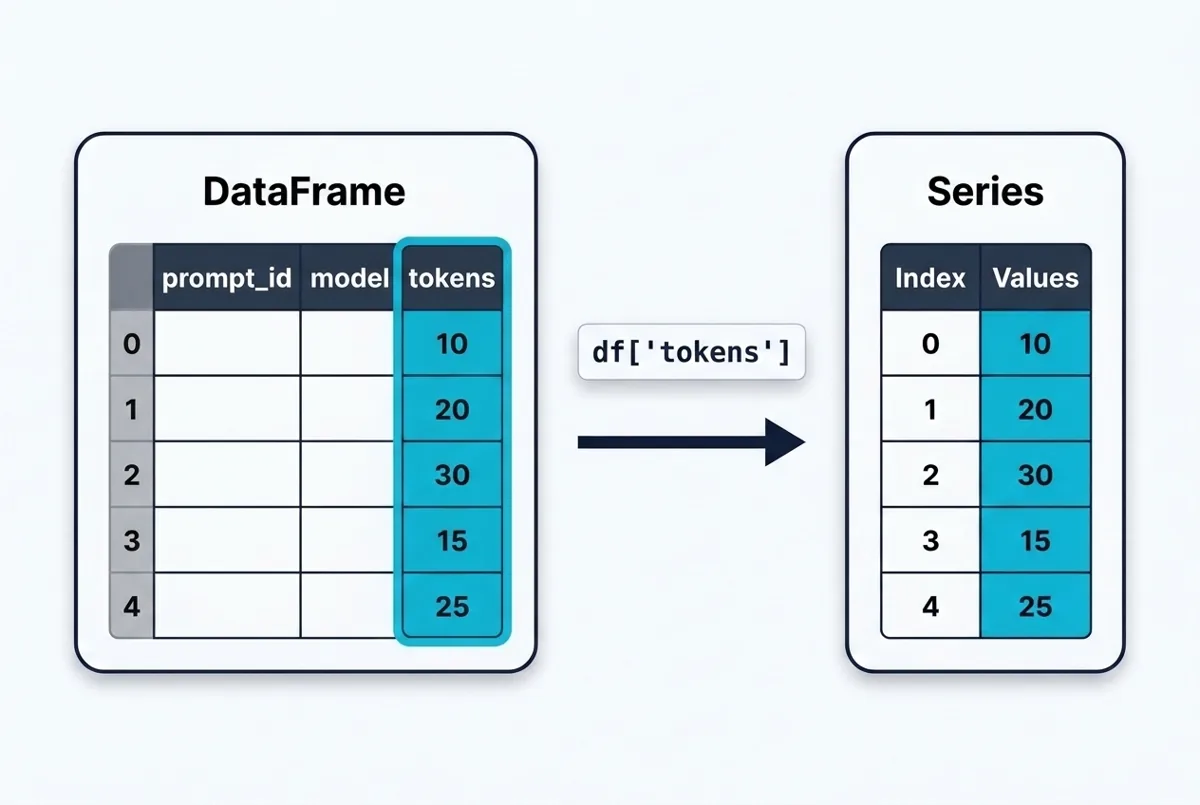
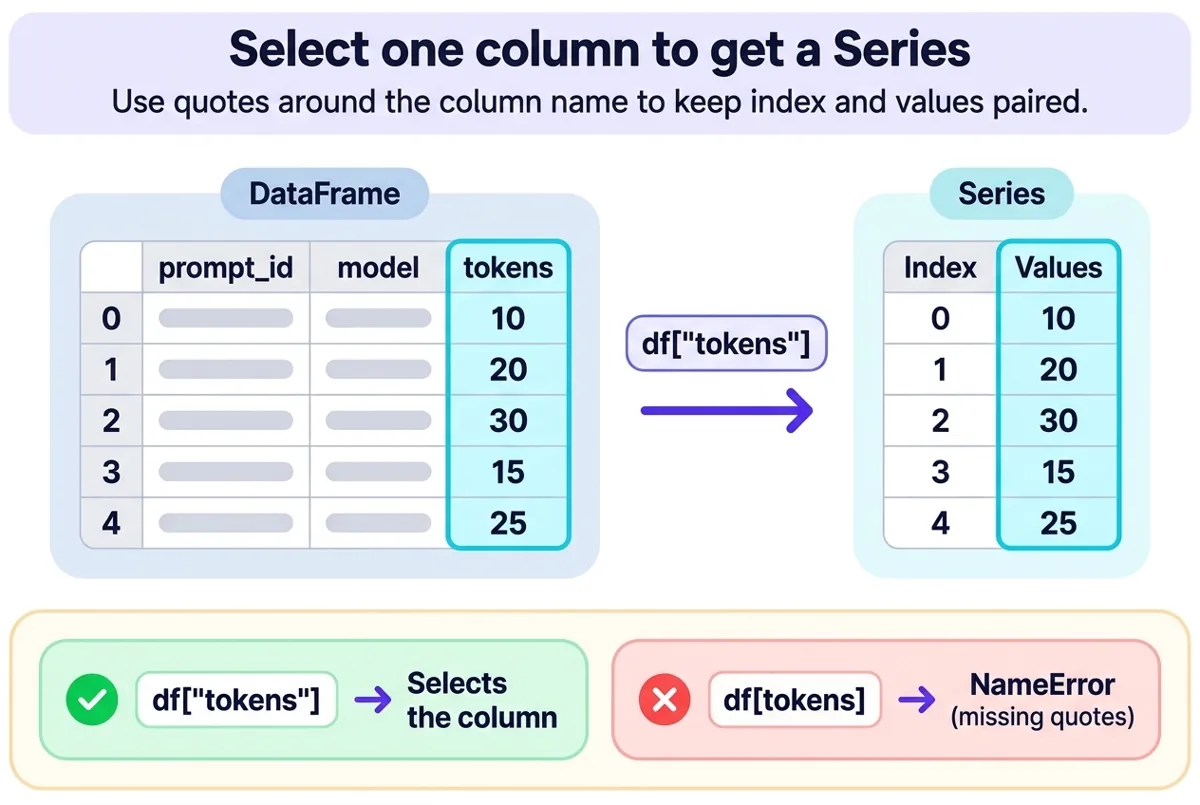
Upgrade p1-12 diagrams to pastel infographics and extend test coverage

diff --git a/tests/web/p1-12.spec.ts b/tests/web/p1-12.spec.ts
@@ -72,6 +72,20 @@ for (const width of [390, 768, 1440]) {
       await q1.getByRole("button", { name: "Check answer" }).click();
       await expect(q1.getByRole("status")).toContainText("Correct");
 
+      // Quick check q2 in column section: wrong feedback + retry
+      const q2 = page.locator("#column .knowledge-check");
+      await expect(q2.locator("fieldset")).toHaveAttribute(
+        "aria-describedby",
+        /.+/,
+      );
+      await q2.getByLabel("df[tokens]", { exact: true }).check();
+      await q2.getByRole("button", { name: "Check answer" }).click();
+      await expect(q2.getByRole("status")).toContainText("NameError");
+      await q2.getByRole("button", { name: "Try again" }).click();
+      await q2.getByLabel('df["tokens"]', { exact: true }).check();
+      await q2.getByRole("button", { name: "Check answer" }).click();
+      await expect(q2.getByRole("status")).toContainText("Correct");
+
       // Practice check in practice section: wrong feedback, retry, keyboard
       const practice = page.locator("#practice");
       await expect(practice.locator("fieldset")).toHaveAttribute(
@@ -132,16 +146,36 @@ for (const width of [390, 768, 1440]) {
         .click();
       await expect(lab).toContainText("total = 0");
 
-      // Step through loop and verify Reset
+      // Step through full 6-step .mean() loop walkthrough
       await lab.getByRole("button", { name: "Start loop →" }).click();
       await expect(lab).toContainText("total = 10");
       await lab
         .getByRole("button", { name: "Next step (row 2 of 5) →" })
         .click();
       await expect(lab).toContainText("total = 30");
+      await lab
+        .getByRole("button", { name: "Next step (row 3 of 5) →" })
+        .click();
+      await lab
+        .getByRole("button", { name: "Next step (row 4 of 5) →" })
+        .click();
+      await lab
+        .getByRole("button", { name: "Next step (row 5 of 5) →" })
+        .click();
+      await expect(lab).toContainText("total = 100");
+      await lab
+        .getByRole("button", { name: "Divide total by count →" })
+        .click();
+      await expect(lab).toContainText("average = 20.0");
 
-      // Final check
+      // Final check: wrong feedback + retry + correct
       const check = page.locator("#check");
+      await check
+        .getByLabel("A for loop cannot add numbers in Python.", { exact: true })
+        .check();
+      await check.getByRole("button", { name: "Check answer" }).click();
+      await expect(check.getByRole("status")).toContainText("can add numbers");
+      await check.getByRole("button", { name: "Try again" }).click();
       await check
         .getByLabel(
           "It expresses the whole-column total in one concise call without writing loop and accumulator boilerplate.",
@@ -158,7 +192,7 @@ for (const width of [390, 768, 1440]) {
         name: "Switch color theme",
       });
       await themeToggle.click();
-      await expect(lab).toContainText("total = 30");
+      await expect(lab).toContainText("average = 20.0");
       await expect(check.getByRole("status")).toContainText("Correct");
 
       // Reset lab returns to step 0

diff --git a/src/lessons/python-for-ai/p1-12/Lesson.tsx b/src/lessons/python-for-ai/p1-12/Lesson.tsx
@@ -128,7 +128,7 @@ print(df)`}
         <figure className={styles.figure}>
           <Image
             src={dataframeImage}
-            alt="Educational illustration showing the anatomy of a pandas DataFrame. An outer container is labeled DataFrame with Columns at the top and Rows on the left. The columns are prompt_id, model, and tokens. Row index labels 0 through 4 align with five records: p1 gemini 10, p2 gemini 20, p3 claude 30, p4 gpt 15, and p5 claude 25."
+            alt="Infographic titled From dictionary to DataFrame: Equal-length lists become a 2D table in Python memory. A Dictionary card with prompt_id, model, and tokens flows right through pd.DataFrame(data) into a DataFrame table with Index 0 through 4 and rows p1 gemini 10, p2 gemini 20, p3 claude 30, p4 gpt 15, and p5 claude 25. Bottom strip reads Everyday analogy: Like a spreadsheet table in Python memory."
             sizes="(max-width: 768px) 100vw, 700px"
           />
           <figcaption className="micro">
@@ -205,7 +205,7 @@ Name: tokens, dtype: int64`}
         <figure className={styles.figure}>
           <Image
             src={seriesImage}
-            alt="Educational illustration showing column extraction from a pandas DataFrame to a Series. On the left is the DataFrame with columns prompt_id, model, and tokens highlighted. A rightward arrow labeled df['tokens'] points to a 1D Series panel showing Index 0 to 4 paired with Values 10, 20, 30, 15, and 25."
+            alt="Infographic titled Select one column to get a Series: Use quotes around the column name to keep index and values paired. A DataFrame with prompt_id, model, and highlighted tokens column flows right via df['tokens'] into a 1D Series with Index 0 to 4 and Values 10, 20, 30, 15, and 25. Bottom cards compare df['tokens'] (Selects the column) against df[tokens] (NameError, missing quotes)."
             sizes="(max-width: 768px) 100vw, 700px"
           />
           <figcaption className="micro">
@@ -274,7 +274,7 @@ print(df["tokens"].mean())  # 20.0`}
         <figure className={styles.figure}>
           <Image
             src={loopVsPandasImage}
-            alt="Educational diagram comparing a manual loop with pandas. The top panel labeled Manual loop flows left to right from the tokens column through total = 0 and Add each value to 100. The bottom panel labeled pandas flows left to right from the tokens column through df['tokens'].sum() to Result: 100."
+            alt="Infographic titled Column method vs manual loop: Same result (100), without writing an accumulator loop. Top Manual loop card flows left to right from a 5-row column stack through total = 0 and Add each value to 100. Bottom pandas card flows left to right from the column stack through df['tokens'].sum() to Result: 100. Bottom Key takeaway strip reads Returns 100 and leaves df unchanged."
             sizes="(max-width: 768px) 100vw, 700px"
           />
           <figcaption className="micro">

diff --git a/docs/lesson-reports/python-for-ai/p1-12.md b/docs/lesson-reports/python-for-ai/p1-12.md
@@ -33,7 +33,7 @@
   - `src/lessons/python-for-ai/p1-12/loop-vs-pandas.webp`
   - `tests/web/p1-12.spec.ts`
   - `docs/lesson-reports/python-for-ai/p1-12.md` (this file)
-- **Content added after user feedback (if any):** Completed and audited the pre-existing uncommitted draft in `../genai-learner-p1-12` at the owner's request (fast-forwarded branch to `origin/main`, fixed dataset mismatch in Quick Check 1, fixed button transition hover-contrast failure, regenerated `loop-vs-pandas.webp` with labeled steps, tightened 390px lab table layout, and completed all review gates).
+- **Content added after user feedback (if any):** Completed and audited the pre-existing uncommitted draft in `../genai-learner-p1-12` at the owner's request (fast-forwarded branch to `origin/main`, fixed dataset mismatch in Quick Check 1, fixed button transition hover-contrast failure, tightened 390px lab table layout, and completed all review gates). After reviewing the dev server, the owner requested upgrading all three diagrams to a richer pastel infographic style matching the `p11` reference infographics; all three were regenerated via `agy` (`generate_image`), inspected by eye, converted to `1200×805` WebP (~48–51 KB each), and paired with updated `alt` text. `tests/web/p1-12.spec.ts` was also extended to cover Quick Check 2 and the full 6-step `.mean()` walkthrough.
 - **Interaction:** "Prompt Log Analyzer" (`PandasLab.tsx`). Toy simulator (explicitly labeled as illustrative and not running Python) comparing **pandas 1-step call** vs **Manual loop walkthrough** on the 5-row prompt log for `.sum()` (100) and `.mean()` (20.0). Includes numbered "Try it in this order" steps, row/column highlighting, step-by-step accumulator trace (5 steps for sum, 6 steps with division for mean), `Reset`, and polite live-region announcements.
 - **Knowledge check:**
   - In-section Quick check 1 (`#table`): asks what `pd.DataFrame(data)` creates in memory. Correct option index 1 (2D table indexed 0–4 with columns `prompt_id`, `model`, `tokens`). Wrong options: single Python list of 100 tokens, raw dict with no row index, CSV file on disk.
@@ -61,7 +61,7 @@ For a subject-matter reviewer: local `python3` in this environment does not have
 ## 5. Decisions and deviations
 
 - **Reused existing `../genai-learner-p1-12` worktree:** Per owner request, fast-forwarded `lessons/p1-12` to `origin/main` (`39fdc09`) and audited/repaired the pre-existing uncommitted draft rather than starting from scratch.
-- **Regenerated `loop-vs-pandas.webp`:** The earlier draft image had three blank unlabeled boxes in the "Manual Loop: 4 lines" panel. Regenerated via `agy` (`generate_image`) with explicit labeled steps (`Manual loop`: `total = 0` → `Add each value` → `100`; `pandas`: `df['tokens'].sum()` → `Result: 100`) and converted to WebP (`1200x805`, 25 KB). Kept the existing `dataframe-structure.webp` and `column-series.webp` after inspecting both by eye and confirming accurate labels and arrows.
+- **Upgraded all three diagrams to pastel infographic style:** After owner review, backed up the earlier WebP files in a scratch folder and regenerated all three (`dataframe-structure.webp` 51 KB, `column-series.webp` 49 KB, `loop-vs-pandas.webp` 48 KB; all `1200×805` WebP) via `agy` (`generate_image`) using the `p11` infographic layout (title banner, pastel semantic cards, left-to-right flow, and bottom analogy/comparison/takeaway strip). Every label, number, and arrow was inspected by eye before conversion, and `alt` text in `Lesson.tsx` was updated to match.
 - **Removed CSS transition on `.btnGroup button`:** A `0.15s` transition caused Playwright's active-button hover-contrast check to read a mid-animation color (ratio ~1.25). Removing the transition matches `p1-10` and keeps contrast > 4.5:1 immediately on click/hover.
 - **Mobile 390px table adjustment:** Tightened mobile table/card padding and moved `(selected Series)` to visually-hidden text in the `tokens` header so all four columns fit cleanly at 390px without horizontal clipping.
 - **Local `Check.tsx`:** Retained the lesson-local `Check.tsx` (matching `p1-10`) because the shared `src/lessons/Check.tsx` renders `<section>` unconditionally and omits `aria-describedby`.
@@ -92,7 +92,7 @@ For a subject-matter reviewer: local `python3` in this environment does not have
 | Content               | 2     | codex: `gpt-6.1-terra` (CLI, read-only) | Clean: no P1, P2, or P3 findings                                                                             | Round clean (1 of 2 consecutive)                                                                                   |
 | Content               | 3     | codex: `gpt-6.1-terra` (CLI, read-only) | Clean: no P1, P2, or P3 findings                                                                             | Round clean (2 of 2 consecutive)                                                                                   |
 
-Tooling (from `references/tooling.yaml`): plan and content reviews ran with Codex (`codex exec --sandbox read-only`, model `gpt-6.1-terra`), the first provider in `review.order`; no earlier provider was skipped. Image provider: `agy` `generate_image` (default model), the first provider in `image_generation.order`, used to regenerate `loop-vs-pandas.webp` (`dataframe-structure.webp` and `column-series.webp` were already present in the worktree and verified by eye).
+Tooling (from `references/tooling.yaml`): plan and content reviews ran with Codex (`codex exec --sandbox read-only`, model `gpt-6.1-terra`), the first provider in `review.order`; no earlier provider was skipped. Image provider: `agy` `generate_image` (default model), the first provider in `image_generation.order`, used to generate all three upgraded WebP infographics (`dataframe-structure.webp`, `column-series.webp`, `loop-vs-pandas.webp`).
 
 Gate checklist: [x] reviewer and image providers follow the `tooling.yaml` order (skips explained above) [x] plan review handled [x] checks pass [x] content review done [x] every plan and content round logged (the final review is recorded in the PR description, not in this report)
 
